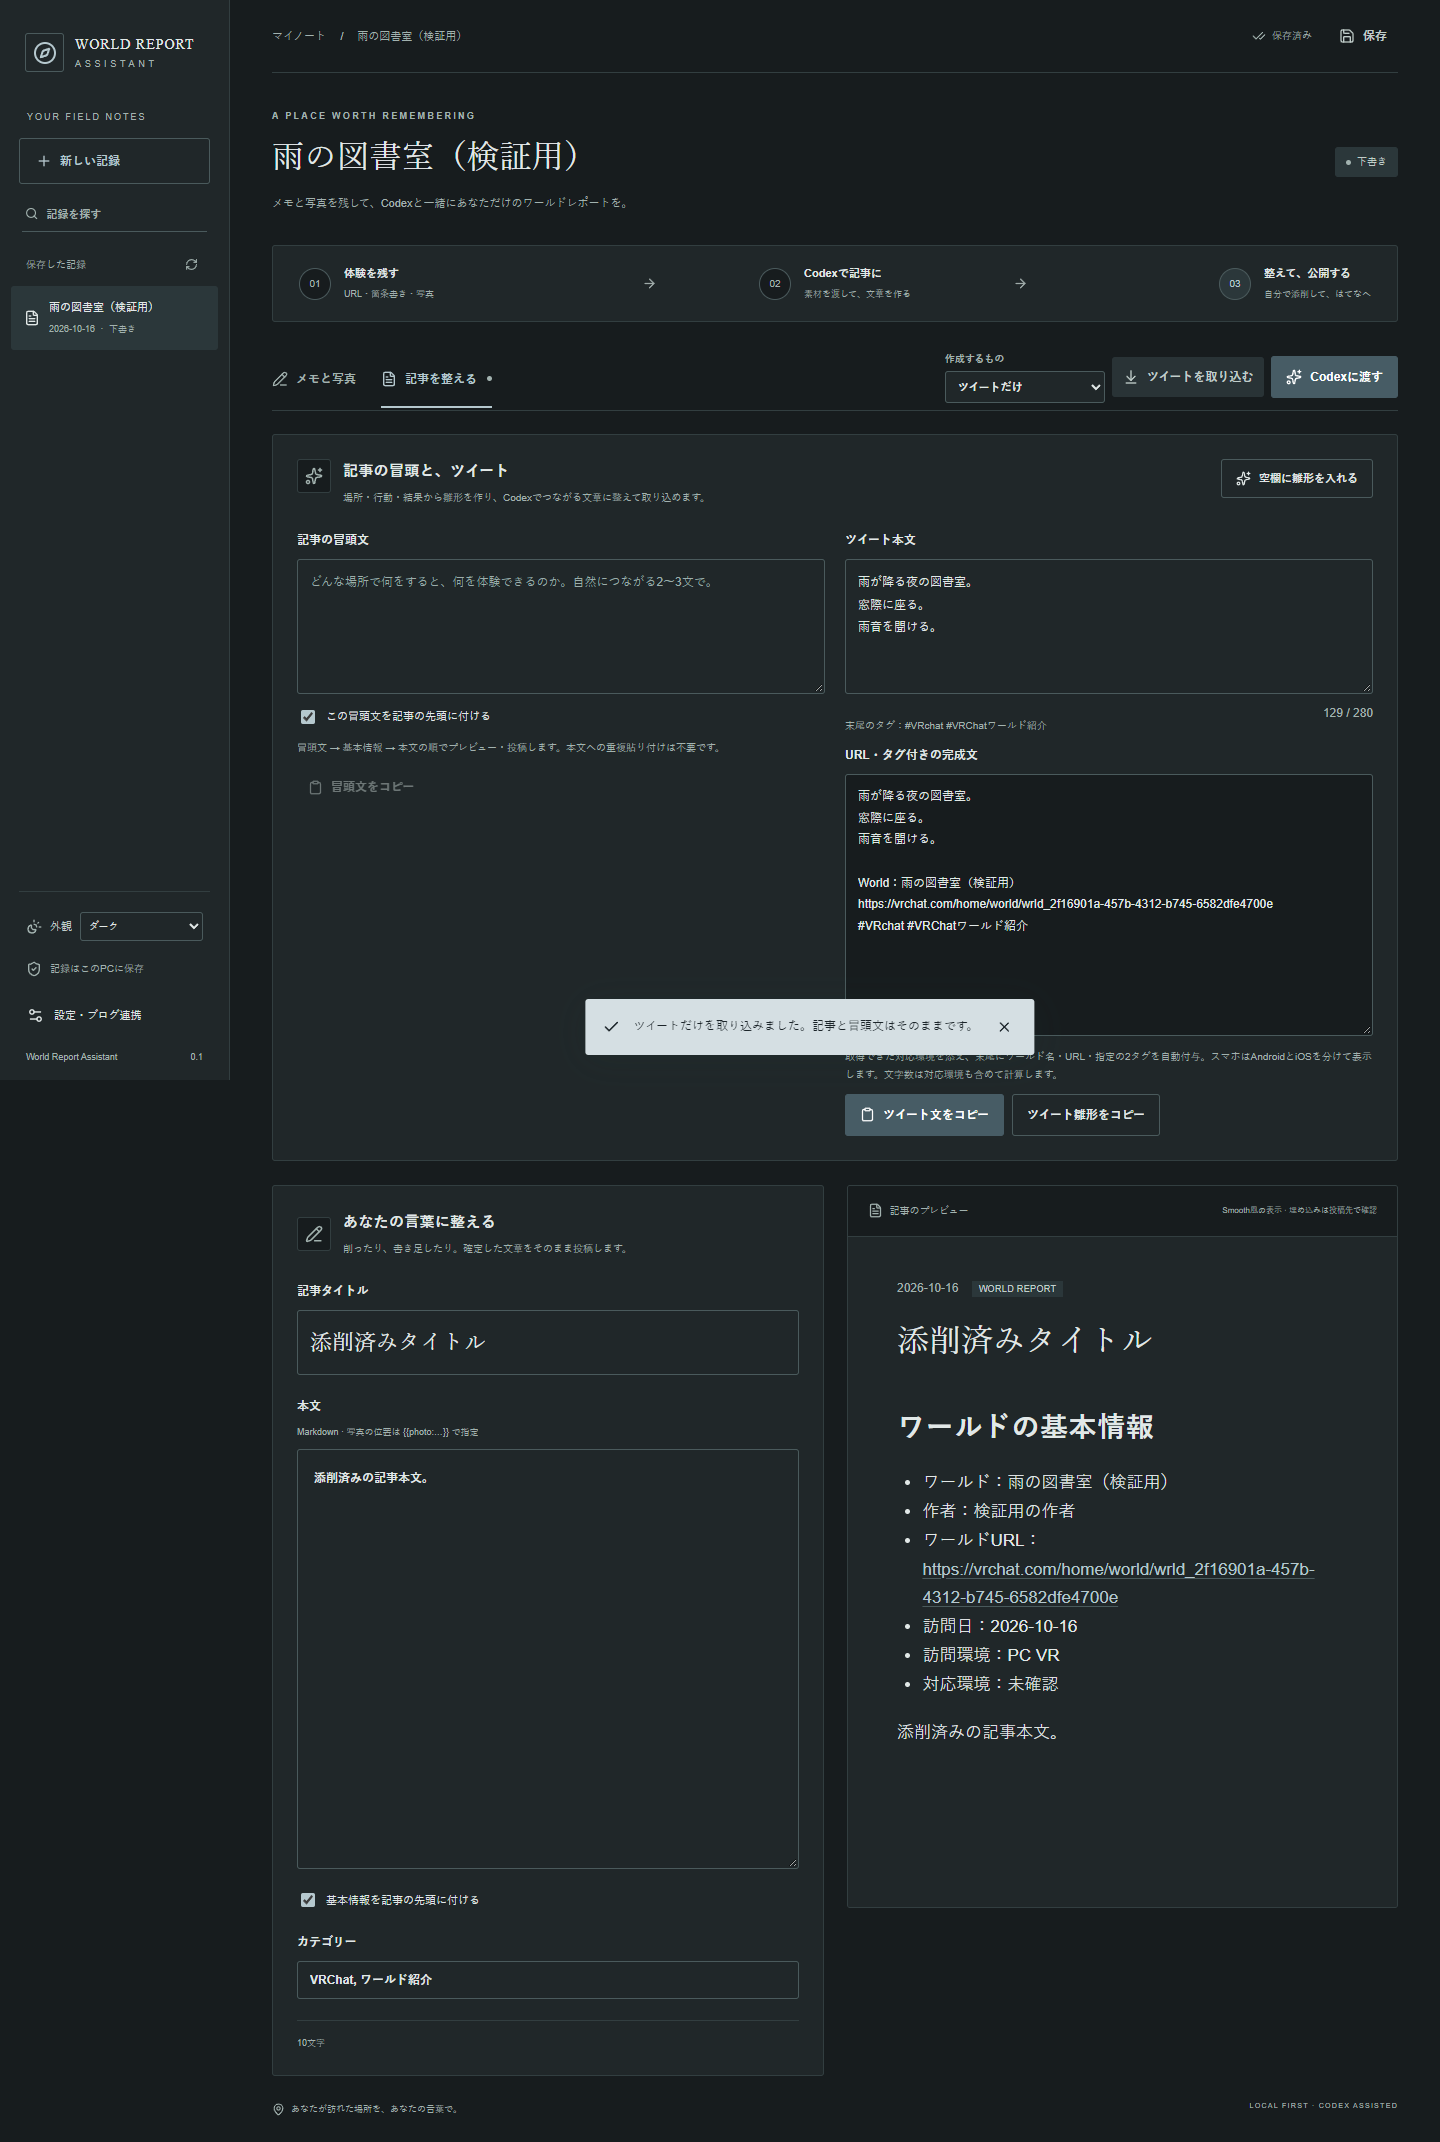
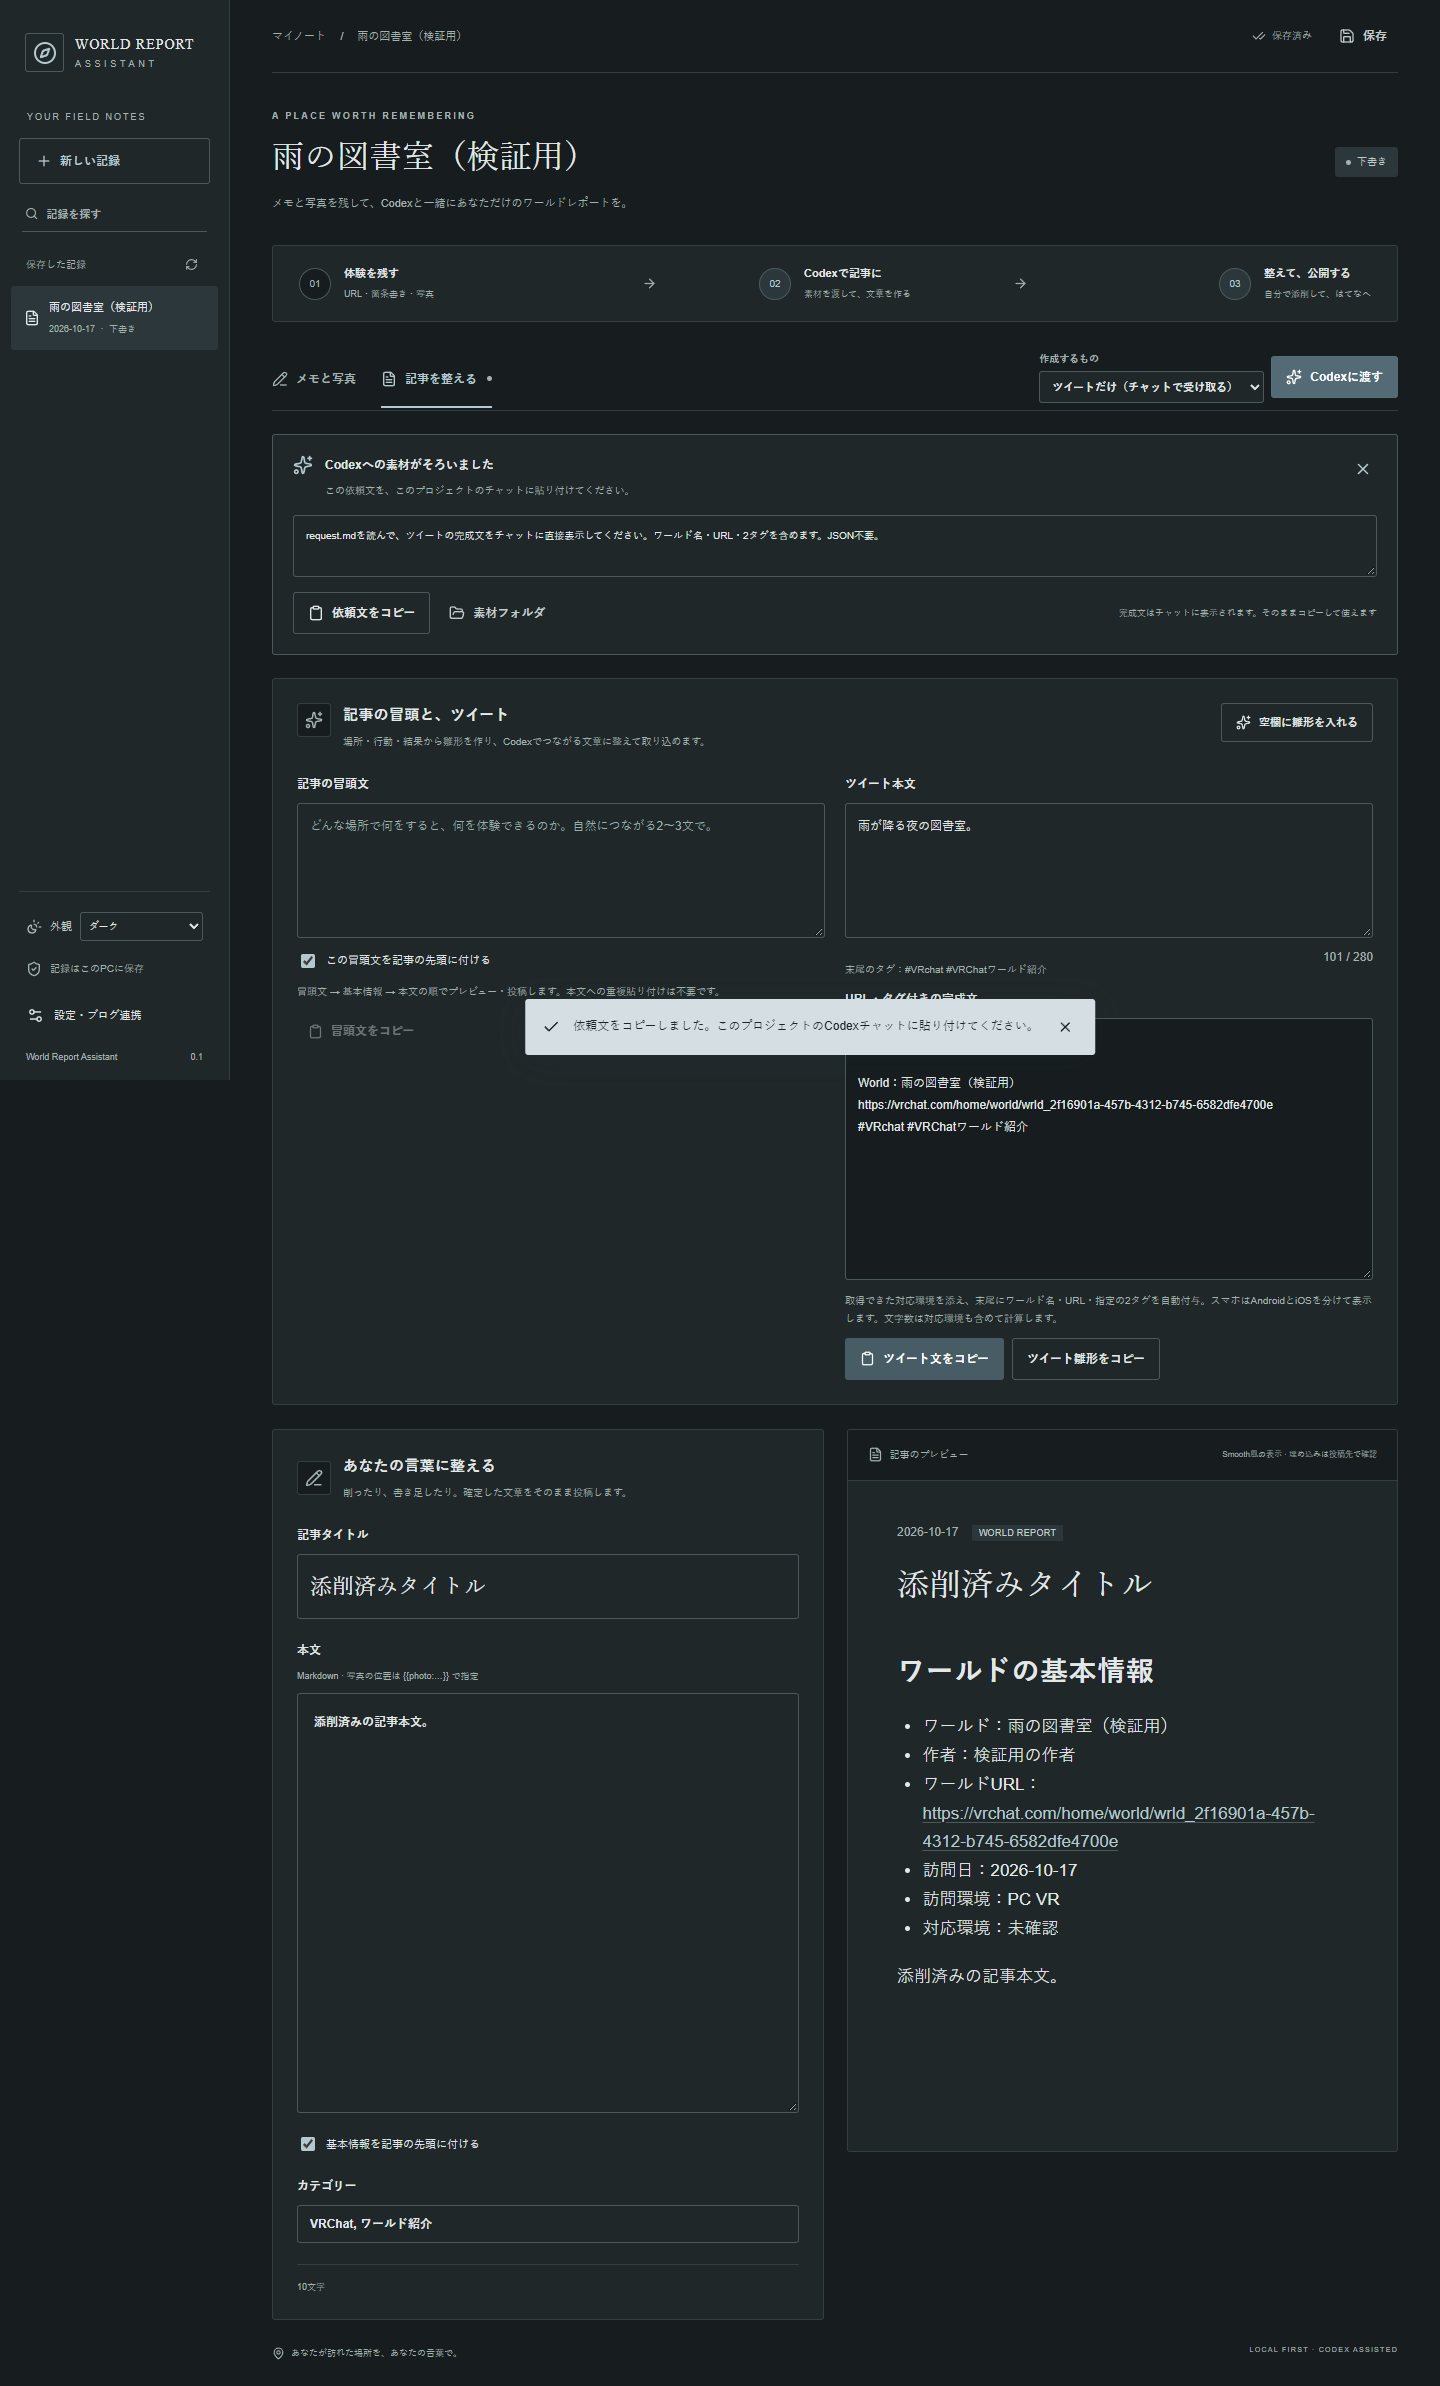
Deliver tweet-only requests as complete copyable posts in chat

diff --git a/src/App.tsx b/src/App.tsx
@@ -722,19 +722,21 @@ export default function App() {
                 }}
               >
                 <option value="article">記事・冒頭文・ツイート</option>
-                <option value="tweet">ツイートだけ</option>
+                <option value="tweet">
+                  ツイートだけ（チャットで受け取る）
+                </option>
               </select>
             </label>
-            <Button
-              icon={ArrowDownToLine}
-              variant="subtle"
-              onClick={importArticle}
-              disabled={!!busy || pending}
-            >
-              {generationMode === "tweet"
-                ? "ツイートを取り込む"
-                : "記事を取り込む"}
-            </Button>
+            {generationMode === "article" && (
+              <Button
+                icon={ArrowDownToLine}
+                variant="subtle"
+                onClick={importArticle}
+                disabled={!!busy || pending}
+              >
+                記事を取り込む
+              </Button>
+            )}
             {tab === "notes" || generationMode === "tweet" ? (
               <Button
                 icon={Sparkles}
@@ -812,7 +814,7 @@ export default function App() {
               </Button>
               <small>
                 {generationMode === "tweet"
-                  ? "tweet.jsonができたら「ツイートを取り込む」へ"
+                  ? "完成文はチャットに表示されます。そのままコピーして使えます"
                   : "記事ができたら「記事を取り込む」へ"}
               </small>
             </div>

diff --git a/src-tauri/src/tests.rs b/src-tauri/src/tests.rs
@@ -566,6 +566,15 @@ fn article_material_preferences_roundtrip_and_changes_block_stale_import() {
     assert_ne!(store::get(&db, &r.id).unwrap().title, "Stale");
 }
 
+// Older versions prepared JSON outputs. Keep that input fixture separate from chat requests.
+fn use_legacy_tweet_output(dir: &std::path::Path) {
+    let path = dir.join("input.json");
+    let mut input: serde_json::Value =
+        serde_json::from_slice(&std::fs::read(&path).unwrap()).unwrap();
+    input["outputs"] = json!({"tweet":"tweet.json"});
+    std::fs::write(path, serde_json::to_vec_pretty(&input).unwrap()).unwrap();
+}
+
 #[test]
 fn tweet_only_uses_existing_body_preserves_article_files_and_imports_no_opening() {
     let tmp = tempfile::tempdir().unwrap();
@@ -589,12 +598,18 @@ fn tweet_only_uses_existing_body_preserves_article_files_and_imports_no_opening(
         std::fs::read_to_string(dir.join("sharing.json")).unwrap(),
         "Keep this original sharing file"
     );
-    assert!(!dir.join("tweet.json").exists());
+    assert_eq!(
+        std::fs::read_to_string(dir.join("tweet.json")).unwrap(),
+        "Old tweet output"
+    );
     let input: serde_json::Value =
         serde_json::from_slice(&std::fs::read(dir.join("input.json")).unwrap()).unwrap();
     assert_eq!(input["generationMode"], "tweet-only");
-    assert_eq!(input["outputs"], json!({"tweet":"tweet.json"}));
+    assert_eq!(input["outputs"], json!({"chat":"complete-tweet"}));
     assert_eq!(input["review"]["body"], r.body);
+    let request = std::fs::read_to_string(dir.join("request.md")).unwrap();
+    assert!(request.contains("チャット本文に直接表示"));
+    assert!(request.contains("communication.footer"));
     assert!(workspace::import(tmp.path(), &mut db, &r.id)
         .unwrap_err()
         .contains("ツイート専用"));
@@ -603,6 +618,10 @@ fn tweet_only_uses_existing_body_preserves_article_files_and_imports_no_opening(
         r#"{"tweet":"新しいツイート本文。"}"#,
     )
     .unwrap();
+    assert!(workspace::import_tweet(tmp.path(), &mut db, &r.id)
+        .unwrap_err()
+        .contains("チャット出力"));
+    use_legacy_tweet_output(&dir);
     let imported = workspace::import_tweet(tmp.path(), &mut db, &r.id).unwrap();
     assert_eq!(imported.sharing.tweet, "新しいツイート本文。");
     assert_eq!(imported.body, r.body);
@@ -627,6 +646,7 @@ fn sar_only_tweet_needs_no_article_and_rejects_invalid_or_stale_outputs() {
     let mut r = store::save(&mut db, r, "sar-only").unwrap();
     let dir = workspace::folder(tmp.path(), &r.id).unwrap();
     workspace::prepare_tweet(tmp.path(), &db, &r.id).unwrap();
+    use_legacy_tweet_output(&dir);
     assert!(!dir.join("article.md").exists());
     assert!(workspace::import_tweet(tmp.path(), &mut db, &r.id).is_err());
     for invalid in [
@@ -645,6 +665,7 @@ fn sar_only_tweet_needs_no_article_and_rejects_invalid_or_stale_outputs() {
     assert!(r.sharing.opening.is_empty());
     for field in ["sar", "body", "tweet"] {
         workspace::prepare_tweet(tmp.path(), &db, &r.id).unwrap();
+        use_legacy_tweet_output(&dir);
         std::fs::write(dir.join("tweet.json"), r#"{"tweet":"Old output"}"#).unwrap();
         let mut changed = store::get(&db, &r.id).unwrap();
         match field {
